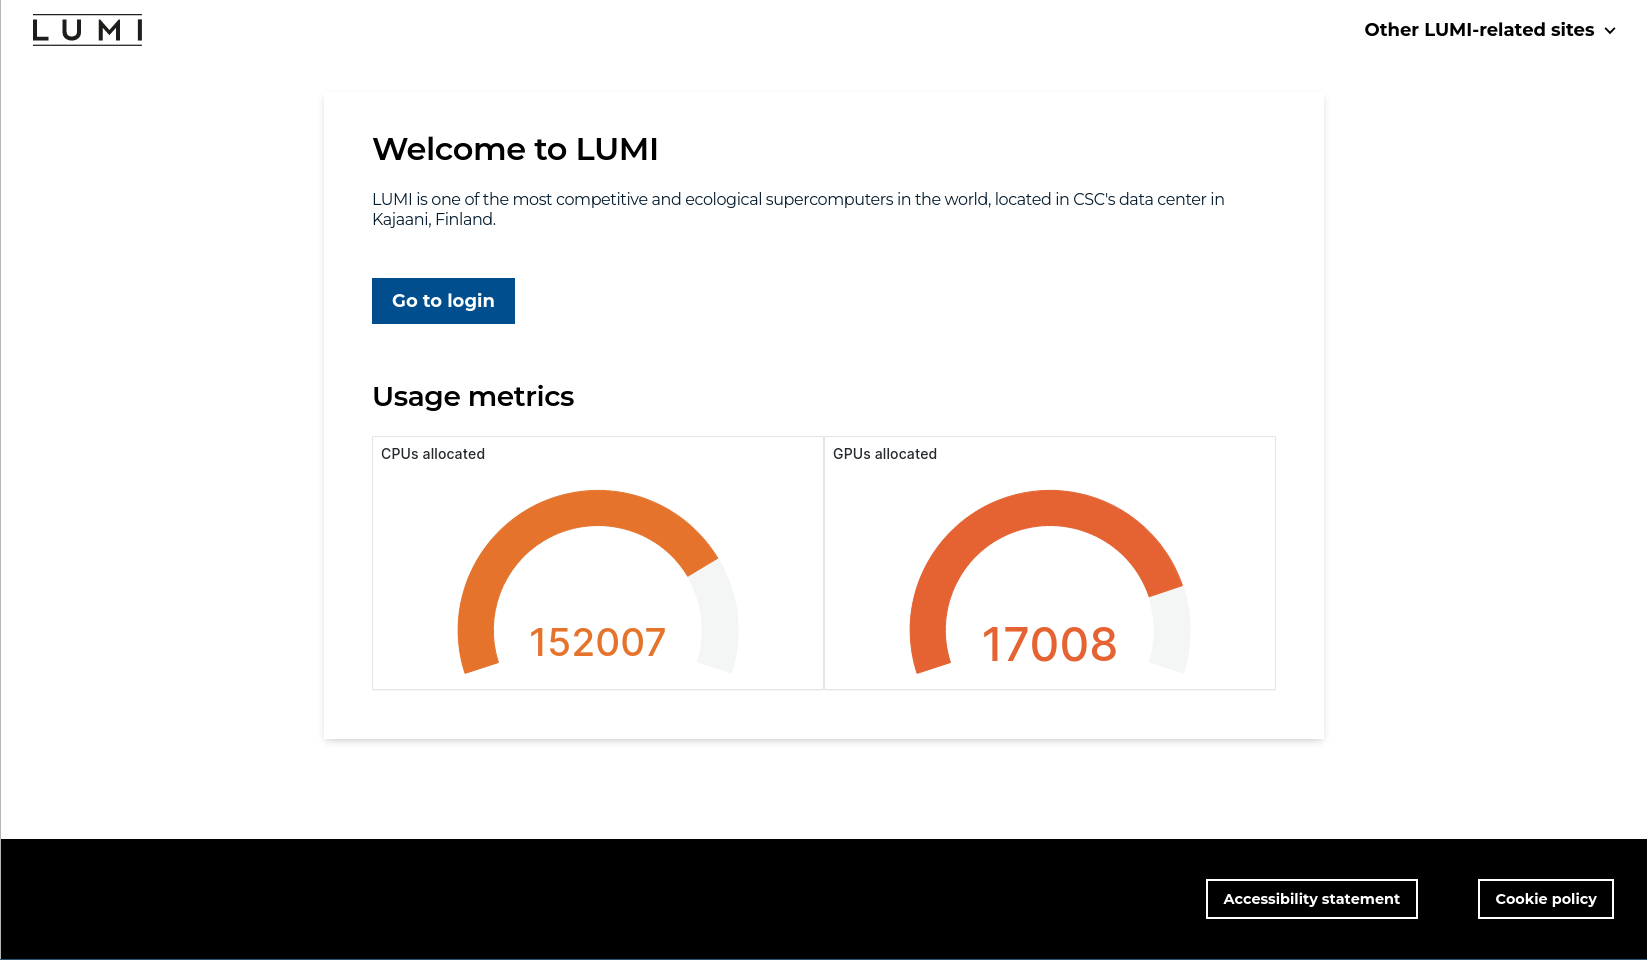
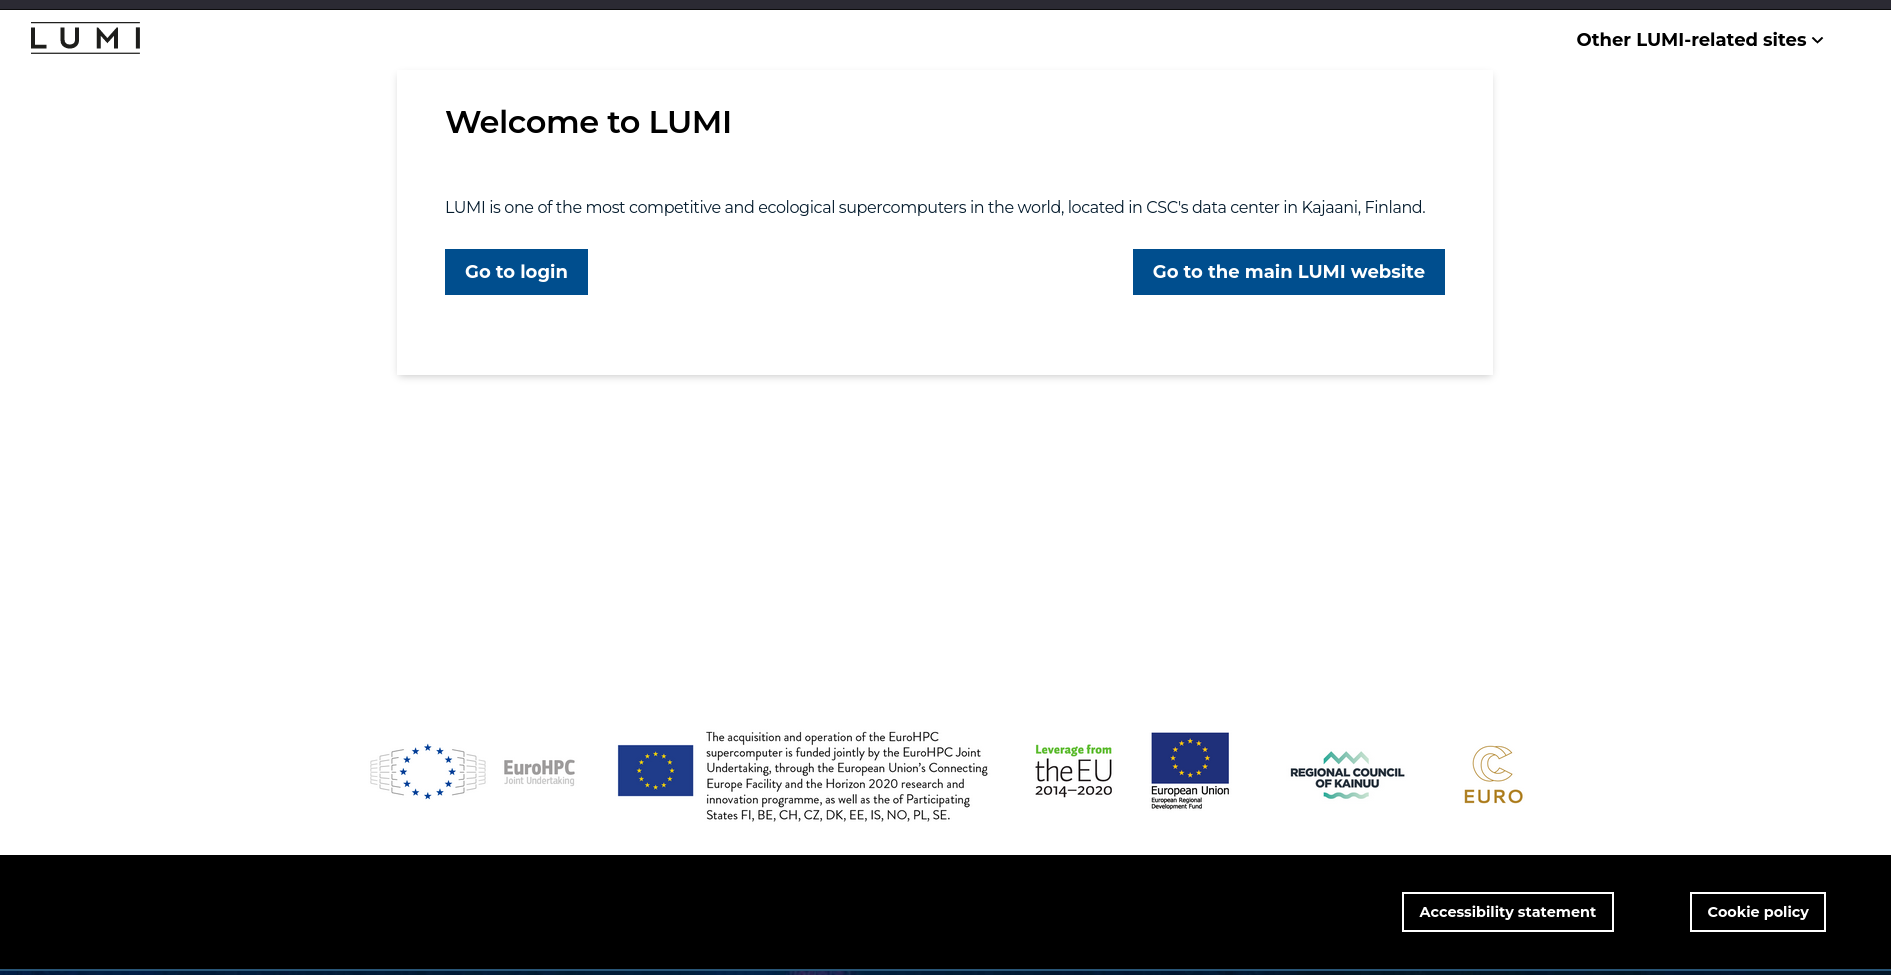
Adds more images

diff --git a/docs/runjobs/webui/index.md b/docs/runjobs/webui/index.md
@@ -3,7 +3,7 @@
 
 ## Intro
 
-The web interfaces for Lumi at [lumi.csc.fi](https://lumi.csc.fi) can be used to access the supercomputers using only a web browser.
+The web interfaces for Lumi at [www.lumi.csc.fi](https://www.lumi.csc.fi) can be used to access the supercomputers using only a web browser.
 
 Features available in the web interfaces:
 
@@ -25,7 +25,7 @@ Features available in the web interfaces:
 
 ## Connecting 
 
-Using a web browser navigate to [lumi.csc.fi](https://lumi.csc.fi). 
+Using a web browser navigate to [www.lumi.csc.fi](https://www.lumi.csc.fi). 
 
 ![Image of welcome page for the lumi web interface](../../../assets/images/wwwLumiWelcome.png)
 
@@ -52,20 +52,22 @@ The _Login node shell_ launches a normal linux shell on one of the login nodes.
 Any command that is running when the login shell browser tab is closed will stop.
 Note that the same rules apply here as during a normal ssh session.
 **Login nodes are only for light pre/postprocessing**. 
+![Interactive login shell](../../../assets/images/wwwLumiShell.png)
 
 The _Compute node shell_ launches a persistent shell on a compute node for heavier commands that should not be run on login nodes.
 The persistent shell will keep running even if you close your browser or lose internet connection.
 
-
 ### Files
 
 The file browser can be opened using the _Files_ section on the top navbar (this displays a list of all project disk areas), or using 
-the shortcut to the home folder at the bottom of the front page. In the file browser
+the shortcut to the home folder on the front page. In the file browser
 you can upload/download files, create new files and directories, or open a shell in the current directory. 
 
 !!! note
     Uploaded files will overwrite existing files with the same name without prompting.
     Currently the maximum size for individual file uploads is 10GB
+
+![File browser view](../../../assets/images/wwwLumiFiles.png)
 
 Clicking on a file will open it in view only mode, for more options like editing, renaming and deleting, use the button with three dots next to the filename.   
 
@@ -74,3 +76,10 @@ The file browser comes with a basic text editor. Some important notes on that:
 - If no changes have been made, the _save_ button is grayed out.
 - There is no _save-as_ feature
 - If a read-only file is opened no indication will be given to the user but no changes will be applied
+
+### Applications
+
+- Jupuyter notebook
+- Vscode 
+- VNC Desktop 
+- TensorBoard

diff --git a/docs/runjobs/webui/jupyter-for-course.md b/docs/runjobs/webui/jupyter-for-course.md
@@ -1,0 +1,57 @@
+# Jupyter for courses
+
+The Jupyter for courses app is an app which makes using a custom
+Python environment simple when hosting or participating in courses.
+
+Python environments can be defined as modules in the project [ProjAppl directory](/computing/disk/#projappl-directory).
+Default resources for the course Python environment can also be defined in the same directory.
+
+## Using the app
+In the form for launching the application:
+
+ - Select the project and reservation used for the course
+ - Select the course module
+ - Launch the application
+
+## Creating a course environment
+
+The files for course environments (modules) can be created under `/projappl/<project>/www_lumi_modules`. 
+The directories can be created if they do not exist.
+
+The course environment is only visible for the project that it was created for.
+Note that you may need to *Restart Web Server* in the *Help* menu in the web interface if the course
+environment is not visible in the form after creating the files and selecting the correct project.
+
+Two files are needed for the course modules:
+
+ - a `<course>.lua` file that defines the [module](/computing/modules) that sets up the Python
+    environment. Only files containing the text `Jupyter` will be visible in the app.
+ - a `<course>-resources.yml` that defines the default resources used for Jupyter.
+
+### Examples
+Module (`/projappl/project_1234567/www_lumi_modules/some-course.lua`):
+```
+-- Jupyter
+depends_on("module1","module2")
+prepend_path("PATH","/path/to/installation/bin")
+setenv("_COURSE_BASE_NAME","FolderName")
+-- Relative to the course dir
+setenv("_COURSE_NOTEBOOK","notebooks/tutorial.ipynb")
+setenv("_COURSE_GIT_REPO","https://github.com/VeryCoolCode/projectA.git")
+-- Anything valid for checkout
+setenv("_COURSE_GIT_REF","")
+-- lab / notebook / empty (defaults to jupyter)
+setenv("_COURSE_NOTEBOOK_TYPE","notebook")
+```
+Resources (`/projappl/project_1234567/www_puhti_modules/some-course-resources.yml`):
+```
+cores: 4
+time: "02:00:00"
+partition: "interactive"
+local_disk: 32
+mem: "16GB"
+```
+### Tutorials
+[Tutorial example for course organizers](https://github.com/CSCfi/Jupyter_www_puhti): This tutorial is useful for course organizers
+who want to provide custom Jupyter notebooks *via* the web interfaces. 
+

diff --git a/docs/runjobs/webui/tensorboard.md b/docs/runjobs/webui/tensorboard.md
@@ -1,0 +1,6 @@
+# TensorBoard
+
+The TensorBoard app launches [TensorBoard](https://www.tensorflow.org/guide/summaries_and_tensorboard), TensorFlow's Visualization Toolkit on a compute node.
+
+To launch it select the log directory where you have data to visualize and the resources for the Slurm job.  
+Note that TensorBoard is very memory intensive but has low CPU usage.
